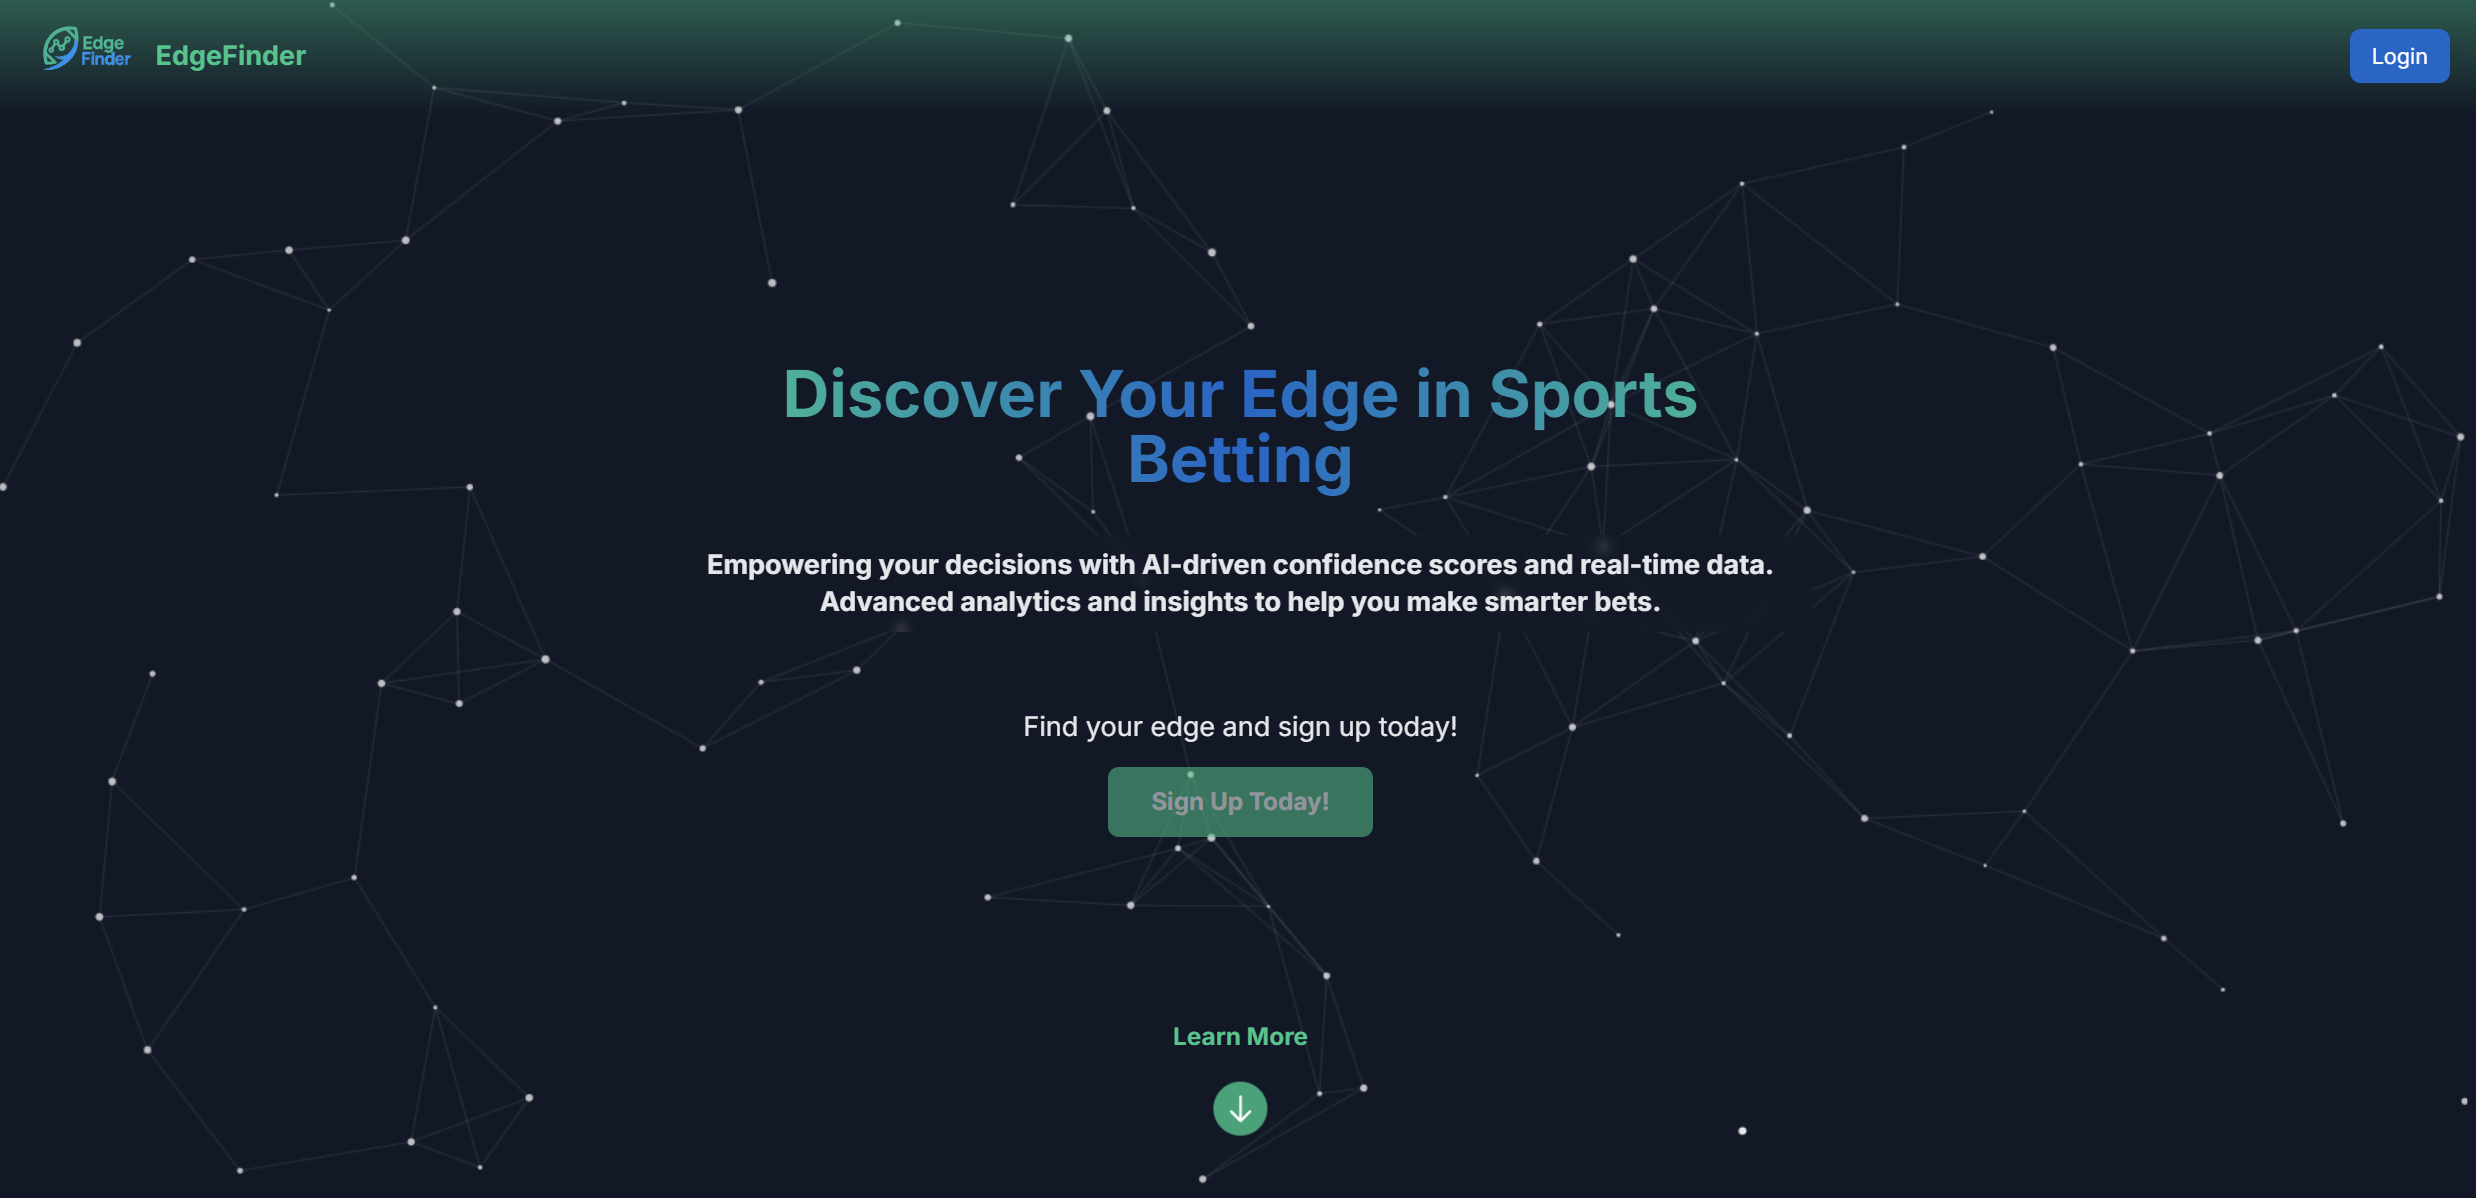
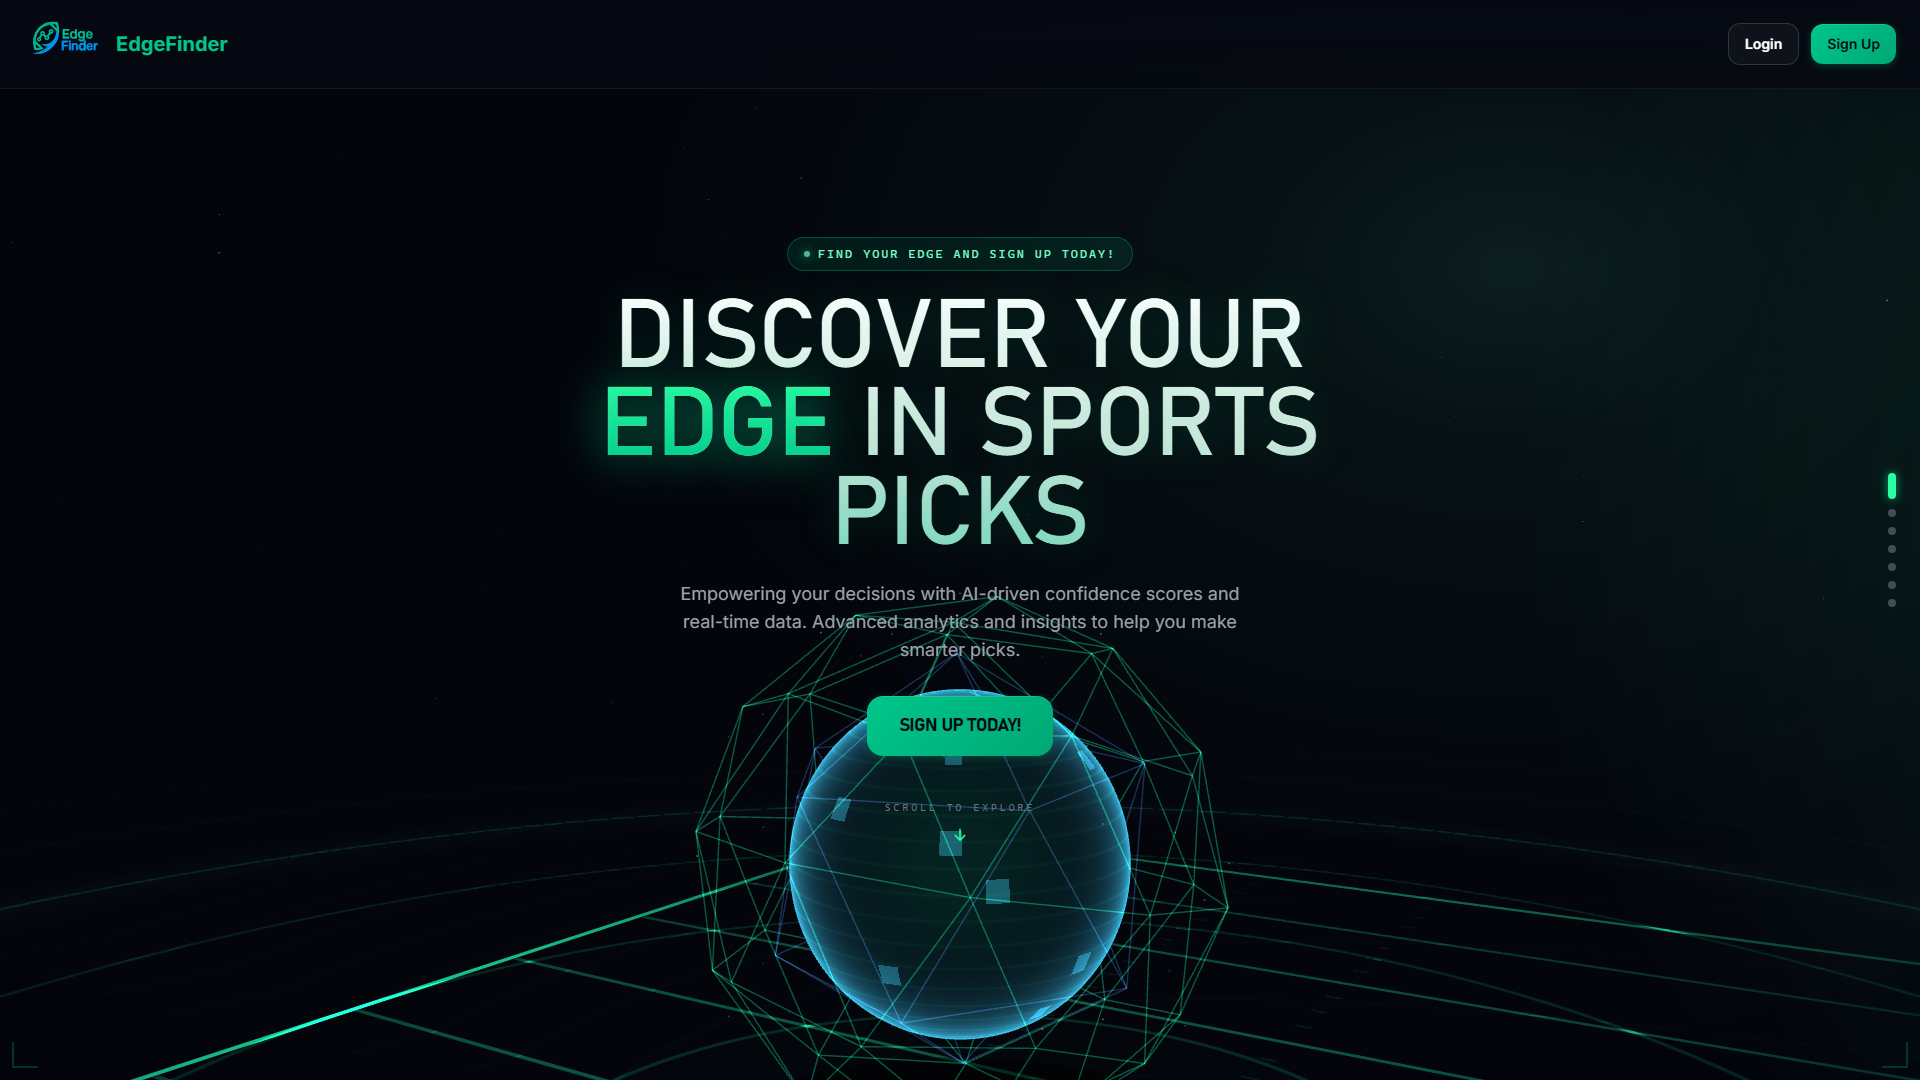
Updates

diff --git a/index.html b/index.html
@@ -51,11 +51,11 @@
             }
         })();
     </script>
-  <script type="module" crossorigin src="/assets/main-DMins19J.js"></script>
-  <link rel="stylesheet" crossorigin href="/assets/main-Da8_LUID.css">
+  <script type="module" crossorigin src="/assets/main-DG2gZ7hl.js"></script>
+  <link rel="stylesheet" crossorigin href="/assets/main-BKGW7lCn.css">
 </head>
 
 <body>
-<div id="root"></div>
+<div id="root"></div>
 </body>
 </html>

diff --git a/assets/main-BKGW7lCn.css b/assets/main-BKGW7lCn.css
@@ -1,0 +1,1 @@
+/*! tailwindcss v4.1.5 | MIT License | https://tailwindcss.com */@layer properties{@supports (((-webkit-hyphens:none)) and (not (margin-trim:inline))) or ((-moz-orient:inline) and (not (color:rgb(from red r g b)))){*,:before,:after,::backdrop{--tw-translate-x:0;--tw-translate-y:0;--tw-translate-z:0;--tw-space-y-reverse:0;--tw-border-style:solid;--tw-leading:initial;--tw-font-weight:initial;--tw-tracking:initial;--tw-shadow:0 0 #0000;--tw-shadow-color:initial;--tw-shadow-alpha:100%;--tw-inset-shadow:0 0 #0000;--tw-inset-shadow-color:initial;--tw-inset-shadow-alpha:100%;--tw-ring-color:initial;--tw-ring-shadow:0 0 #0000;--tw-inset-ring-color:initial;--tw-inset-ring-shadow:0 0 #0000;--tw-ring-inset:initial;--tw-ring-offset-width:0px;--tw-ring-offset-color:#fff;--tw-ring-offset-shadow:0 0 #0000;--tw-backdrop-blur:initial;--tw-backdrop-brightness:initial;--tw-backdrop-contrast:initial;--tw-backdrop-grayscale:initial;--tw-backdrop-hue-rotate:initial;--tw-backdrop-invert:initial;--tw-backdrop-opacity:initial;--tw-backdrop-saturate:initial;--tw-backdrop-sepia:initial;--tw-duration:initial;--tw-blur:initial;--tw-brightness:initial;--tw-contrast:initial;--tw-grayscale:initial;--tw-hue-rotate:initial;--tw-invert:initial;--tw-opacity:initial;--tw-saturate:initial;--tw-sepia:initial;--tw-drop-shadow:initial;--tw-drop-shadow-color:initial;--tw-drop-shadow-alpha:100%;--tw-drop-shadow-size:initial}}}@layer theme{:root,:host{--font-sans:"Archivo",system-ui,sans-serif;--font-mono:"Space Mono",ui-monospace,monospace;--color-amber-400:oklch(82.8% .189 84.429);--color-emerald-300:oklch(84.5% .143 164.978);--color-emerald-400:oklch(76.5% .177 163.223);--color-emerald-500:oklch(69.6% .17 162.48);--color-emerald-700:oklch(50.8% .118 165.612);--color-rose-400:oklch(71.2% .194 13.428);--color-rose-600:oklch(58.6% .253 17.585);--color-gray-200:oklch(92.8% .006 264.531);--color-black:#000;--color-white:#fff;--spacing:.25rem;--container-xs:20rem;--container-2xl:42rem;--container-3xl:48rem;--container-4xl:56rem;--container-5xl:64rem;--text-xs:.75rem;--text-xs--line-height:calc(1/.75);--text-sm:.875rem;--text-sm--line-height:calc(1.25/.875);--text-lg:1.125rem;--text-lg--line-height:calc(1.75/1.125);--text-xl:1.25rem;--text-xl--line-height:calc(1.75/1.25);--text-2xl:1.5rem;--text-2xl--line-height:calc(2/1.5);--text-3xl:1.875rem;--text-3xl--line-height: 1.2 ;--text-4xl:2.25rem;--text-4xl--line-height:calc(2.5/2.25);--text-5xl:3rem;--text-5xl--line-height:1;--text-6xl:3.75rem;--text-6xl--line-height:1;--font-weight-normal:400;--font-weight-medium:500;--font-weight-semibold:600;--font-weight-bold:700;--tracking-tight:-.025em;--tracking-wide:.025em;--tracking-wider:.05em;--tracking-widest:.1em;--leading-tight:1.25;--leading-relaxed:1.625;--radius-md:0px;--radius-lg:0px;--radius-xl:0px;--radius-2xl:0px;--radius-3xl:0px;--animate-ping:ping 1s cubic-bezier(0,0,.2,1)infinite;--animate-pulse:pulse 2s cubic-bezier(.4,0,.6,1)infinite;--blur-sm:8px;--aspect-video:16/9;--default-transition-duration:.15s;--default-transition-timing-function:cubic-bezier(.4,0,.2,1);--default-font-family:var(--font-sans);--default-mono-font-family:var(--font-mono);--color-base:#0a0a0a;--color-base-2:#111;--color-surface:#16150f;--color-ink:#ede9e0;--color-ink-soft:#b8b4a8;--color-ink-muted:#8a867b;--color-line:#ede9e024;--color-line-strong:#ede9e042;--color-card:#ede9e008;--color-card-2:#ede9e00d;--color-card-hover:#ede9e017;--color-accent:#c6ff00;--color-accent-2:#ff2e9a;--color-accent-3:#c6ff00;--color-accent-glow:#c6ff0038;--font-display:"Anton","Arial Narrow",sans-serif}}@layer base{*,:after,:before,::backdrop{box-sizing:border-box;border:0 solid;margin:0;padding:0}::file-selector-button{box-sizing:border-box;border:0 solid;margin:0;padding:0}html,:host{-webkit-text-size-adjust:100%;-moz-tab-size:4;tab-size:4;line-height:1.5;font-family:var(--default-font-family,ui-sans-serif,system-ui,sans-serif,"Apple Color Emoji","Segoe UI Emoji","Segoe UI Symbol","Noto Color Emoji");font-feature-settings:var(--default-font-feature-settings,normal);font-variation-settings:var(--default-font-variation-settings,normal);-webkit-tap-highlight-color:transparent}hr{height:0;color:inherit;border-top-width:1px}abbr:where([title]){-webkit-text-decoration:underline dotted;text-decoration:underline dotted}h1,h2,h3,h4,h5,h6{font-size:inherit;font-weight:inherit}a{color:inherit;-webkit-text-decoration:inherit;text-decoration:inherit}b,strong{font-weight:bolder}code,kbd,samp,pre{font-family:var(--default-mono-font-family,ui-monospace,SFMono-Regular,Menlo,Monaco,Consolas,"Liberation Mono","Courier New",monospace);font-feature-settings:var(--default-mono-font-feature-settings,normal);font-variation-settings:var(--default-mono-font-variation-settings,normal);font-size:1em}small{font-size:80%}sub,sup{vertical-align:baseline;font-size:75%;line-height:0;position:relative}sub{bottom:-.25em}sup{top:-.5em}table{text-indent:0;border-color:inherit;border-collapse:collapse}:-moz-focusring{outline:auto}progress{vertical-align:baseline}summary{display:list-item}ol,ul,menu{list-style:none}img,svg,video,canvas,audio,iframe,embed,object{vertical-align:middle;display:block}img,video{max-width:100%;height:auto}button,input,select,optgroup,textarea{font:inherit;font-feature-settings:inherit;font-variation-settings:inherit;letter-spacing:inherit;color:inherit;opacity:1;background-color:#0000;border-radius:0}::file-selector-button{font:inherit;font-feature-settings:inherit;font-variation-settings:inherit;letter-spacing:inherit;color:inherit;opacity:1;background-color:#0000;border-radius:0}:where(select:is([multiple],[size])) optgroup{font-weight:bolder}:where(select:is([multiple],[size])) optgroup option{padding-inline-start:20px}::file-selector-button{margin-inline-end:4px}::placeholder{opacity:1}@supports (not ((-webkit-appearance:-apple-pay-button))) or (contain-intrinsic-size:1px){::placeholder{color:currentColor}@supports (color:color-mix(in lab,red,red)){::placeholder{color:color-mix(in oklab,currentcolor 50%,transparent)}}}textarea{resize:vertical}::-webkit-search-decoration{-webkit-appearance:none}::-webkit-date-and-time-value{min-height:1lh;text-align:inherit}::-webkit-datetime-edit{display:inline-flex}::-webkit-datetime-edit-fields-wrapper{padding:0}::-webkit-datetime-edit{padding-block:0}::-webkit-datetime-edit-year-field{padding-block:0}::-webkit-datetime-edit-month-field{padding-block:0}::-webkit-datetime-edit-day-field{padding-block:0}::-webkit-datetime-edit-hour-field{padding-block:0}::-webkit-datetime-edit-minute-field{padding-block:0}::-webkit-datetime-edit-second-field{padding-block:0}::-webkit-datetime-edit-millisecond-field{padding-block:0}::-webkit-datetime-edit-meridiem-field{padding-block:0}:-moz-ui-invalid{box-shadow:none}button,input:where([type=button],[type=reset],[type=submit]){-webkit-appearance:button;-moz-appearance:button;appearance:button}::file-selector-button{-webkit-appearance:button;-moz-appearance:button;appearance:button}::-webkit-inner-spin-button{height:auto}::-webkit-outer-spin-button{height:auto}[hidden]:where(:not([hidden=until-found])){display:none!important}}@layer components;@layer utilities{.pointer-events-auto{pointer-events:auto}.pointer-events-none{pointer-events:none}.visible{visibility:visible}.absolute{position:absolute}.fixed{position:fixed}.relative{position:relative}.static{position:static}.sticky{position:sticky}.inset-0{inset:calc(var(--spacing)*0)}.inset-x-0{inset-inline:calc(var(--spacing)*0)}.inset-x-4{inset-inline:calc(var(--spacing)*4)}.inset-y-0{inset-block:calc(var(--spacing)*0)}.top-0{top:calc(var(--spacing)*0)}.top-10{top:calc(var(--spacing)*10)}.top-24{top:calc(var(--spacing)*24)}.top-\[4\.75rem\]{top:4.75rem}.top-\[16\%\]{top:16%}.right-0{right:calc(var(--spacing)*0)}.right-4{right:calc(var(--spacing)*4)}.bottom-0{bottom:calc(var(--spacing)*0)}.bottom-4{bottom:calc(var(--spacing)*4)}.left-0{left:calc(var(--spacing)*0)}.left-1\/2{left:50%}.-z-10{z-index:-10}.z-0{z-index:0}.z-10{z-index:10}.z-40{z-index:40}.z-50{z-index:50}.z-\[60\]{z-index:60}.z-\[100\]{z-index:100}.container{width:100%}@media (min-width:40rem){.container{max-width:40rem}}@media (min-width:48rem){.container{max-width:48rem}}@media (min-width:64rem){.container{max-width:64rem}}@media (min-width:80rem){.container{max-width:80rem}}@media (min-width:96rem){.container{max-width:96rem}}.-mx-6{margin-inline:calc(var(--spacing)*-6)}.mx-auto{margin-inline:auto}.mt-0\.5{margin-top:calc(var(--spacing)*.5)}.mt-1{margin-top:calc(var(--spacing)*1)}.mt-1\.5{margin-top:calc(var(--spacing)*1.5)}.mt-2{margin-top:calc(var(--spacing)*2)}.mt-3{margin-top:calc(var(--spacing)*3)}.mt-4{margin-top:calc(var(--spacing)*4)}.mt-5{margin-top:calc(var(--spacing)*5)}.mt-6{margin-top:calc(var(--spacing)*6)}.mt-7{margin-top:calc(var(--spacing)*7)}.mt-8{margin-top:calc(var(--spacing)*8)}.mt-10{margin-top:calc(var(--spacing)*10)}.mt-20{margin-top:calc(var(--spacing)*20)}.-mb-\[0\.08em\]{margin-bottom:-.08em}.-mb-\[0\.25em\]{margin-bottom:-.25em}.mb-1{margin-bottom:calc(var(--spacing)*1)}.mb-1\.5{margin-bottom:calc(var(--spacing)*1.5)}.mb-2{margin-bottom:calc(var(--spacing)*2)}.mb-4{margin-bottom:calc(var(--spacing)*4)}.mb-5{margin-bottom:calc(var(--spacing)*5)}.mb-6{margin-bottom:calc(var(--spacing)*6)}.mb-12{margin-bottom:calc(var(--spacing)*12)}.ml-1{margin-left:calc(var(--spacing)*1)}.ml-3{margin-left:calc(var(--spacing)*3)}.block{display:block}.contents{display:contents}.flex{display:flex}.grid{display:grid}.hidden{display:none}.inline{display:inline}.inline-block{display:inline-block}.inline-flex{display:inline-flex}.aspect-video{aspect-ratio:var(--aspect-video)}.h-1\.5{height:calc(var(--spacing)*1.5)}.h-2{height:calc(var(--spacing)*2)}.h-2\.5{height:calc(var(--spacing)*2.5)}.h-3{height:calc(var(--spacing)*3)}.h-7{height:calc(var(--spacing)*7)}.h-9{height:calc(var(--spacing)*9)}.h-10{height:calc(var(--spacing)*10)}.h-11{height:calc(var(--spacing)*11)}.h-12{height:calc(var(--spacing)*12)}.h-40{height:calc(var(--spacing)*40)}.h-\[1\.4em\]{height:1.4em}.h-\[2px\]{height:2px}.h-full{height:100%}.h-px{height:1px}.h-screen{height:100vh}.min-h-\[100dvh\]{min-height:100dvh}.min-h-screen{min-height:100vh}.w-1\.5{width:calc(var(--spacing)*1.5)}.w-1\/3{width:33.3333%}.w-2{width:calc(var(--spacing)*2)}.w-2\.5{width:calc(var(--spacing)*2.5)}.w-3{width:calc(var(--spacing)*3)}.w-7{width:calc(var(--spacing)*7)}.w-8{width:calc(var(--spacing)*8)}.w-9{width:calc(var(--spacing)*9)}.w-10{width:calc(var(--spacing)*10)}.w-11{width:calc(var(--spacing)*11)}.w-12{width:calc(var(--spacing)*12)}.w-40{width:calc(var(--spacing)*40)}.w-\[2px\]{width:2px}.w-\[44\%\]{width:44%}.w-\[220px\]{width:220px}.w-full{width:100%}.w-px{width:1px}.max-w-2xl{max-width:var(--container-2xl)}.max-w-3xl{max-width:var(--container-3xl)}.max-w-4xl{max-width:var(--container-4xl)}.max-w-5xl{max-width:var(--container-5xl)}.max-w-xs{max-width:var(--container-xs)}.min-w-0{min-width:calc(var(--spacing)*0)}.flex-1{flex:1}.shrink-0{flex-shrink:0}.origin-bottom-left{transform-origin:0 100%}.origin-left{transform-origin:0}.origin-top{transform-origin:top}.-translate-x-1\/2{--tw-translate-x: -50% ;translate:var(--tw-translate-x)var(--tw-translate-y)}.animate-\[loadingbar_0\.9s_ease_infinite\]{animation:.9s infinite loadingbar}.animate-ping{animation:var(--animate-ping)}.animate-pulse{animation:var(--animate-pulse)}.resize-none{resize:none}.grid-cols-3{grid-template-columns:repeat(3,minmax(0,1fr))}.grid-cols-\[20px_1fr\]{grid-template-columns:20px 1fr}.flex-col{flex-direction:column}.flex-nowrap{flex-wrap:nowrap}.flex-wrap{flex-wrap:wrap}.place-items-center{place-items:center}.items-baseline{align-items:baseline}.items-center{align-items:center}.items-start{align-items:flex-start}.justify-between{justify-content:space-between}.justify-center{justify-content:center}.gap-1{gap:calc(var(--spacing)*1)}.gap-1\.5{gap:calc(var(--spacing)*1.5)}.gap-2{gap:calc(var(--spacing)*2)}.gap-2\.5{gap:calc(var(--spacing)*2.5)}.gap-3{gap:calc(var(--spacing)*3)}.gap-4{gap:calc(var(--spacing)*4)}.gap-6{gap:calc(var(--spacing)*6)}.gap-8{gap:calc(var(--spacing)*8)}.gap-12{gap:calc(var(--spacing)*12)}:where(.space-y-4>:not(:last-child)){--tw-space-y-reverse:0;margin-block-start:calc(calc(var(--spacing)*4)*var(--tw-space-y-reverse));margin-block-end:calc(calc(var(--spacing)*4)*calc(1 - var(--tw-space-y-reverse)))}:where(.space-y-5>:not(:last-child)){--tw-space-y-reverse:0;margin-block-start:calc(calc(var(--spacing)*5)*var(--tw-space-y-reverse));margin-block-end:calc(calc(var(--spacing)*5)*calc(1 - var(--tw-space-y-reverse)))}:where(.space-y-6>:not(:last-child)){--tw-space-y-reverse:0;margin-block-start:calc(calc(var(--spacing)*6)*var(--tw-space-y-reverse));margin-block-end:calc(calc(var(--spacing)*6)*calc(1 - var(--tw-space-y-reverse)))}:where(.space-y-10>:not(:last-child)){--tw-space-y-reverse:0;margin-block-start:calc(calc(var(--spacing)*10)*var(--tw-space-y-reverse));margin-block-end:calc(calc(var(--spacing)*10)*calc(1 - var(--tw-space-y-reverse)))}.gap-x-5{column-gap:calc(var(--spacing)*5)}.gap-y-2{row-gap:calc(var(--spacing)*2)}.truncate{text-overflow:ellipsis;white-space:nowrap;overflow:hidden}.overflow-hidden{overflow:hidden}.rounded{border-radius:.25rem}.rounded-2xl{border-radius:var(--radius-2xl)}.rounded-3xl{border-radius:var(--radius-3xl)}.rounded-full{border-radius:3.40282e38px}.rounded-lg{border-radius:var(--radius-lg)}.rounded-md{border-radius:var(--radius-md)}.rounded-xl{border-radius:var(--radius-xl)}.border{border-style:var(--tw-border-style);border-width:1px}.border-y-2{border-block-style:var(--tw-border-style);border-block-width:2px}.border-t{border-top-style:var(--tw-border-style);border-top-width:1px}.border-t-2{border-top-style:var(--tw-border-style);border-top-width:2px}.border-b{border-bottom-style:var(--tw-border-style);border-bottom-width:1px}.border-emerald-500\/30{border-color:#00bb7f4d}@supports (color:color-mix(in lab,red,red)){.border-emerald-500\/30{border-color:color-mix(in oklab,var(--color-emerald-500)30%,transparent)}}.border-gray-200\/40{border-color:#e5e7eb66}@supports (color:color-mix(in lab,red,red)){.border-gray-200\/40{border-color:color-mix(in oklab,var(--color-gray-200)40%,transparent)}}.border-ink{border-color:var(--color-ink)}.border-line{border-color:var(--color-line)}.border-line-strong{border-color:var(--color-line-strong)}.border-transparent{border-color:#0000}.bg-accent{background-color:var(--color-accent)}.bg-accent-2{background-color:var(--color-accent-2)}.bg-accent-3\/60{background-color:#c6ff0099}@supports (color:color-mix(in lab,red,red)){.bg-accent-3\/60{background-color:color-mix(in oklab,var(--color-accent-3)60%,transparent)}}.bg-amber-400\/70{background-color:#fcbb00b3}@supports (color:color-mix(in lab,red,red)){.bg-amber-400\/70{background-color:color-mix(in oklab,var(--color-amber-400)70%,transparent)}}.bg-base{background-color:var(--color-base)}.bg-base-2{background-color:var(--color-base-2)}.bg-black\/35{background-color:#00000059}@supports (color:color-mix(in lab,red,red)){.bg-black\/35{background-color:color-mix(in oklab,var(--color-black)35%,transparent)}}.bg-card{background-color:var(--color-card)}.bg-card-2{background-color:var(--color-card-2)}.bg-card-hover{background-color:var(--color-card-hover)}.bg-emerald-400{background-color:var(--color-emerald-400)}.bg-emerald-400\/70{background-color:#00d294b3}@supports (color:color-mix(in lab,red,red)){.bg-emerald-400\/70{background-color:color-mix(in oklab,var(--color-emerald-400)70%,transparent)}}.bg-emerald-500{background-color:var(--color-emerald-500)}.bg-emerald-500\/10{background-color:#00bb7f1a}@supports (color:color-mix(in lab,red,red)){.bg-emerald-500\/10{background-color:color-mix(in oklab,var(--color-emerald-500)10%,transparent)}}.bg-gray-200\/50{background-color:#e5e7eb80}@supports (color:color-mix(in lab,red,red)){.bg-gray-200\/50{background-color:color-mix(in oklab,var(--color-gray-200)50%,transparent)}}.bg-ink{background-color:var(--color-ink)}.bg-line-strong{background-color:var(--color-line-strong)}.bg-rose-400\/70{background-color:#ff667fb3}@supports (color:color-mix(in lab,red,red)){.bg-rose-400\/70{background-color:color-mix(in oklab,var(--color-rose-400)70%,transparent)}}.bg-surface{background-color:var(--color-surface)}.\[mask-image\:linear-gradient\(to_right\,transparent\,black_30\%\)\]{-webkit-mask-image:linear-gradient(90deg,#0000,#000 30%);mask-image:linear-gradient(90deg,#0000,#000 30%)}.\[mask-image\:radial-gradient\(ellipse_at_center\,black_20\%\,transparent_78\%\)\]{-webkit-mask-image:radial-gradient(#000 20%,#0000 78%);mask-image:radial-gradient(#000 20%,#0000 78%)}.object-cover{object-fit:cover}.p-4{padding:calc(var(--spacing)*4)}.p-5{padding:calc(var(--spacing)*5)}.p-6{padding:calc(var(--spacing)*6)}.p-7{padding:calc(var(--spacing)*7)}.p-8{padding:calc(var(--spacing)*8)}.px-2{padding-inline:calc(var(--spacing)*2)}.px-2\.5{padding-inline:calc(var(--spacing)*2.5)}.px-3{padding-inline:calc(var(--spacing)*3)}.px-3\.5{padding-inline:calc(var(--spacing)*3.5)}.px-4{padding-inline:calc(var(--spacing)*4)}.px-5{padding-inline:calc(var(--spacing)*5)}.px-6{padding-inline:calc(var(--spacing)*6)}.py-0\.5{padding-block:calc(var(--spacing)*.5)}.py-1{padding-block:calc(var(--spacing)*1)}.py-1\.5{padding-block:calc(var(--spacing)*1.5)}.py-2{padding-block:calc(var(--spacing)*2)}.py-2\.5{padding-block:calc(var(--spacing)*2.5)}.py-3{padding-block:calc(var(--spacing)*3)}.py-3\.5{padding-block:calc(var(--spacing)*3.5)}.py-12{padding-block:calc(var(--spacing)*12)}.py-16{padding-block:calc(var(--spacing)*16)}.py-24{padding-block:calc(var(--spacing)*24)}.pt-3{padding-top:calc(var(--spacing)*3)}.pt-4{padding-top:calc(var(--spacing)*4)}.pt-6{padding-top:calc(var(--spacing)*6)}.pt-16{padding-top:calc(var(--spacing)*16)}.pt-24{padding-top:calc(var(--spacing)*24)}.pt-28{padding-top:calc(var(--spacing)*28)}.pt-36{padding-top:calc(var(--spacing)*36)}.pr-3{padding-right:calc(var(--spacing)*3)}.pb-4{padding-bottom:calc(var(--spacing)*4)}.pb-6{padding-bottom:calc(var(--spacing)*6)}.pb-12{padding-bottom:calc(var(--spacing)*12)}.pb-20{padding-bottom:calc(var(--spacing)*20)}.pb-\[0\.08em\]{padding-bottom:.08em}.pb-\[0\.25em\]{padding-bottom:.25em}.text-center{text-align:center}.align-\[0\.3em\]{vertical-align:.3em}.align-bottom{vertical-align:bottom}.font-display{font-family:var(--font-display)}.font-mono{font-family:var(--font-mono)}.text-2xl{font-size:var(--text-2xl);line-height:var(--tw-leading,var(--text-2xl--line-height))}.text-3xl{font-size:var(--text-3xl);line-height:var(--tw-leading,var(--text-3xl--line-height))}.text-4xl{font-size:var(--text-4xl);line-height:var(--tw-leading,var(--text-4xl--line-height))}.text-6xl{font-size:var(--text-6xl);line-height:var(--tw-leading,var(--text-6xl--line-height))}.text-lg{font-size:var(--text-lg);line-height:var(--tw-leading,var(--text-lg--line-height))}.text-sm{font-size:var(--text-sm);line-height:var(--tw-leading,var(--text-sm--line-height))}.text-xl{font-size:var(--text-xl);line-height:var(--tw-leading,var(--text-xl--line-height))}.text-xs{font-size:var(--text-xs);line-height:var(--tw-leading,var(--text-xs--line-height))}.text-\[7rem\]{font-size:7rem}.text-\[10px\]{font-size:10px}.text-\[11px\]{font-size:11px}.text-\[13\.5vw\]{font-size:13.5vw}.text-\[13px\]{font-size:13px}.text-\[15px\]{font-size:15px}.text-\[22vw\]{font-size:22vw}.text-\[clamp\(2\.75rem\,9vw\,6\.5rem\)\]{font-size:clamp(2.75rem,9vw,6.5rem)}.leading-\[0\.95\]{--tw-leading:.95;line-height:.95}.leading-none{--tw-leading:1;line-height:1}.leading-relaxed{--tw-leading:var(--leading-relaxed);line-height:var(--leading-relaxed)}.leading-tight{--tw-leading:var(--leading-tight);line-height:var(--leading-tight)}.font-bold{--tw-font-weight:var(--font-weight-bold);font-weight:var(--font-weight-bold)}.font-medium{--tw-font-weight:var(--font-weight-medium);font-weight:var(--font-weight-medium)}.font-normal{--tw-font-weight:var(--font-weight-normal);font-weight:var(--font-weight-normal)}.font-semibold{--tw-font-weight:var(--font-weight-semibold);font-weight:var(--font-weight-semibold)}.tracking-\[0\.3em\]{--tw-tracking:.3em;letter-spacing:.3em}.tracking-\[0\.25em\]{--tw-tracking:.25em;letter-spacing:.25em}.tracking-tight{--tw-tracking:var(--tracking-tight);letter-spacing:var(--tracking-tight)}.tracking-wide{--tw-tracking:var(--tracking-wide);letter-spacing:var(--tracking-wide)}.tracking-wider{--tw-tracking:var(--tracking-wider);letter-spacing:var(--tracking-wider)}.tracking-widest{--tw-tracking:var(--tracking-widest);letter-spacing:var(--tracking-widest)}.whitespace-nowrap{white-space:nowrap}.whitespace-pre{white-space:pre}.text-\[\#0a0a0a\]{color:#0a0a0a}.text-accent{color:var(--color-accent)}.text-accent-3{color:var(--color-accent-3)}.text-base{color:var(--color-base)}.text-emerald-700{color:var(--color-emerald-700)}.text-ink{color:var(--color-ink)}.text-ink-muted{color:var(--color-ink-muted)}.text-ink-soft{color:var(--color-ink-soft)}.text-rose-600{color:var(--color-rose-600)}.text-white{color:var(--color-white)}.uppercase{text-transform:uppercase}.opacity-0{opacity:0}.opacity-40{opacity:.4}.opacity-50{opacity:.5}.opacity-70{opacity:.7}.opacity-75{opacity:.75}.opacity-80{opacity:.8}.opacity-90{opacity:.9}.opacity-100{opacity:1}.shadow-\[0_0_12px_var\(--color-accent-glow\)\]{--tw-shadow:0 0 12px var(--tw-shadow-color,var(--color-accent-glow));box-shadow:var(--tw-inset-shadow),var(--tw-inset-ring-shadow),var(--tw-ring-offset-shadow),var(--tw-ring-shadow),var(--tw-shadow)}.shadow-\[0_0_15px_var\(--color-accent-glow\)\]{--tw-shadow:0 0 15px var(--tw-shadow-color,var(--color-accent-glow));box-shadow:var(--tw-inset-shadow),var(--tw-inset-ring-shadow),var(--tw-ring-offset-shadow),var(--tw-ring-shadow),var(--tw-shadow)}.shadow-\[0_0_16px_var\(--color-accent-glow\)\]{--tw-shadow:0 0 16px var(--tw-shadow-color,var(--color-accent-glow));box-shadow:var(--tw-inset-shadow),var(--tw-inset-ring-shadow),var(--tw-ring-offset-shadow),var(--tw-ring-shadow),var(--tw-shadow)}.shadow-\[0_0_20px_var\(--color-accent-glow\)\]{--tw-shadow:0 0 20px var(--tw-shadow-color,var(--color-accent-glow));box-shadow:var(--tw-inset-shadow),var(--tw-inset-ring-shadow),var(--tw-ring-offset-shadow),var(--tw-ring-shadow),var(--tw-shadow)}.shadow-\[0_0_24px_-6px_var\(--color-accent-glow\)\]{--tw-shadow:0 0 24px -6px var(--tw-shadow-color,var(--color-accent-glow));box-shadow:var(--tw-inset-shadow),var(--tw-inset-ring-shadow),var(--tw-ring-offset-shadow),var(--tw-ring-shadow),var(--tw-shadow)}.shadow-\[0_0_30px_-6px_var\(--color-accent-glow\)\]{--tw-shadow:0 0 30px -6px var(--tw-shadow-color,var(--color-accent-glow));box-shadow:var(--tw-inset-shadow),var(--tw-inset-ring-shadow),var(--tw-ring-offset-shadow),var(--tw-ring-shadow),var(--tw-shadow)}.shadow-\[0_8px_40px_-12px_rgba\(0\,0\,0\,0\.6\)\]{--tw-shadow:0 8px 40px -12px var(--tw-shadow-color,#0009);box-shadow:var(--tw-inset-shadow),var(--tw-inset-ring-shadow),var(--tw-ring-offset-shadow),var(--tw-ring-shadow),var(--tw-shadow)}.shadow-\[0_24px_80px_-24px_rgba\(0\,0\,0\,0\.6\)\]{--tw-shadow:0 24px 80px -24px var(--tw-shadow-color,#0009);box-shadow:var(--tw-inset-shadow),var(--tw-inset-ring-shadow),var(--tw-ring-offset-shadow),var(--tw-ring-shadow),var(--tw-shadow)}.shadow-lg{--tw-shadow:0 10px 15px -3px var(--tw-shadow-color,#0000001a),0 4px 6px -4px var(--tw-shadow-color,#0000001a);box-shadow:var(--tw-inset-shadow),var(--tw-inset-ring-shadow),var(--tw-ring-offset-shadow),var(--tw-ring-shadow),var(--tw-shadow)}.ring-1{--tw-ring-shadow:var(--tw-ring-inset,)0 0 0 calc(1px + var(--tw-ring-offset-width))var(--tw-ring-color,currentcolor);box-shadow:var(--tw-inset-shadow),var(--tw-inset-ring-shadow),var(--tw-ring-offset-shadow),var(--tw-ring-shadow),var(--tw-shadow)}.ring-4{--tw-ring-shadow:var(--tw-ring-inset,)0 0 0 calc(4px + var(--tw-ring-offset-width))var(--tw-ring-color,currentcolor);box-shadow:var(--tw-inset-shadow),var(--tw-inset-ring-shadow),var(--tw-ring-offset-shadow),var(--tw-ring-shadow),var(--tw-shadow)}.ring-accent\/15{--tw-ring-color:#c6ff0026}@supports (color:color-mix(in lab,red,red)){.ring-accent\/15{--tw-ring-color:color-mix(in oklab,var(--color-accent)15%,transparent)}}.ring-line{--tw-ring-color:var(--color-line)}.backdrop-blur-sm{--tw-backdrop-blur:blur(var(--blur-sm));-webkit-backdrop-filter:var(--tw-backdrop-blur,)var(--tw-backdrop-brightness,)var(--tw-backdrop-contrast,)var(--tw-backdrop-grayscale,)var(--tw-backdrop-hue-rotate,)var(--tw-backdrop-invert,)var(--tw-backdrop-opacity,)var(--tw-backdrop-saturate,)var(--tw-backdrop-sepia,);backdrop-filter:var(--tw-backdrop-blur,)var(--tw-backdrop-brightness,)var(--tw-backdrop-contrast,)var(--tw-backdrop-grayscale,)var(--tw-backdrop-hue-rotate,)var(--tw-backdrop-invert,)var(--tw-backdrop-opacity,)var(--tw-backdrop-saturate,)var(--tw-backdrop-sepia,)}.transition{transition-property:color,background-color,border-color,outline-color,text-decoration-color,fill,stroke,--tw-gradient-from,--tw-gradient-via,--tw-gradient-to,opacity,box-shadow,transform,translate,scale,rotate,filter,-webkit-backdrop-filter,backdrop-filter,display,visibility,content-visibility,overlay,pointer-events;transition-timing-function:var(--tw-ease,var(--default-transition-timing-function));transition-duration:var(--tw-duration,var(--default-transition-duration))}.transition-all{transition-property:all;transition-timing-function:var(--tw-ease,var(--default-transition-timing-function));transition-duration:var(--tw-duration,var(--default-transition-duration))}.transition-colors{transition-property:color,background-color,border-color,outline-color,text-decoration-color,fill,stroke,--tw-gradient-from,--tw-gradient-via,--tw-gradient-to;transition-timing-function:var(--tw-ease,var(--default-transition-timing-function));transition-duration:var(--tw-duration,var(--default-transition-duration))}.transition-opacity{transition-property:opacity;transition-timing-function:var(--tw-ease,var(--default-transition-timing-function));transition-duration:var(--tw-duration,var(--default-transition-duration))}.transition-transform{transition-property:transform,translate,scale,rotate;transition-timing-function:var(--tw-ease,var(--default-transition-timing-function));transition-duration:var(--tw-duration,var(--default-transition-duration))}.duration-300{--tw-duration:.3s;transition-duration:.3s}.duration-500{--tw-duration:.5s;transition-duration:.5s}.duration-700{--tw-duration:.7s;transition-duration:.7s}.outline-none{--tw-outline-style:none;outline-style:none}.select-none{-webkit-user-select:none;user-select:none}@media (hover:hover){.group-hover\:translate-x-0\.5:is(:where(.group):hover *){--tw-translate-x:calc(var(--spacing)*.5);translate:var(--tw-translate-x)var(--tw-translate-y)}.group-hover\:-translate-y-0\.5:is(:where(.group):hover *){--tw-translate-y:calc(var(--spacing)*-.5);translate:var(--tw-translate-x)var(--tw-translate-y)}.group-hover\:scale-\[1\.03\]:is(:where(.group):hover *){scale:1.03}.group-hover\:text-accent:is(:where(.group):hover *){color:var(--color-accent)}.group-hover\:opacity-100:is(:where(.group):hover *){opacity:1}}.placeholder\:text-ink-muted::placeholder{color:var(--color-ink-muted)}@media (hover:hover){.hover\:scale-\[1\.03\]:hover{scale:1.03}.hover\:border-accent:hover{border-color:var(--color-accent)}.hover\:border-accent\/40:hover{border-color:#c6ff0066}@supports (color:color-mix(in lab,red,red)){.hover\:border-accent\/40:hover{border-color:color-mix(in oklab,var(--color-accent)40%,transparent)}}.hover\:border-accent\/50:hover{border-color:#c6ff0080}@supports (color:color-mix(in lab,red,red)){.hover\:border-accent\/50:hover{border-color:color-mix(in oklab,var(--color-accent)50%,transparent)}}.hover\:border-accent\/60:hover{border-color:#c6ff0099}@supports (color:color-mix(in lab,red,red)){.hover\:border-accent\/60:hover{border-color:color-mix(in oklab,var(--color-accent)60%,transparent)}}.hover\:bg-accent:hover{background-color:var(--color-accent)}.hover\:bg-accent-2:hover{background-color:var(--color-accent-2)}.hover\:bg-accent\/10:hover{background-color:#c6ff001a}@supports (color:color-mix(in lab,red,red)){.hover\:bg-accent\/10:hover{background-color:color-mix(in oklab,var(--color-accent)10%,transparent)}}.hover\:bg-card-hover:hover{background-color:var(--color-card-hover)}.hover\:text-\[\#0a0a0a\]:hover{color:#0a0a0a}.hover\:text-ink:hover{color:var(--color-ink)}.hover\:text-ink-soft:hover{color:var(--color-ink-soft)}.hover\:underline:hover{text-decoration-line:underline}.hover\:brightness-110:hover{--tw-brightness:brightness(110%);filter:var(--tw-blur,)var(--tw-brightness,)var(--tw-contrast,)var(--tw-grayscale,)var(--tw-hue-rotate,)var(--tw-invert,)var(--tw-saturate,)var(--tw-sepia,)var(--tw-drop-shadow,)}}.focus\:border-accent\/60:focus{border-color:#c6ff0099}@supports (color:color-mix(in lab,red,red)){.focus\:border-accent\/60:focus{border-color:color-mix(in oklab,var(--color-accent)60%,transparent)}}.focus\:ring-2:focus{--tw-ring-shadow:var(--tw-ring-inset,)0 0 0 calc(2px + var(--tw-ring-offset-width))var(--tw-ring-color,currentcolor);box-shadow:var(--tw-inset-shadow),var(--tw-inset-ring-shadow),var(--tw-ring-offset-shadow),var(--tw-ring-shadow),var(--tw-shadow)}.focus\:ring-accent\/20:focus{--tw-ring-color:#c6ff0033}@supports (color:color-mix(in lab,red,red)){.focus\:ring-accent\/20:focus{--tw-ring-color:color-mix(in oklab,var(--color-accent)20%,transparent)}}.disabled\:opacity-70:disabled{opacity:.7}@media (min-width:40rem){.sm\:top-\[12\%\]{top:12%}.sm\:inline-flex{display:inline-flex}.sm\:grid-cols-2{grid-template-columns:repeat(2,minmax(0,1fr))}.sm\:grid-cols-\[28px_1fr\]{grid-template-columns:28px 1fr}.sm\:flex-col{flex-direction:column}.sm\:flex-row{flex-direction:row}.sm\:items-center{align-items:center}.sm\:items-end{align-items:flex-end}.sm\:items-start{align-items:flex-start}.sm\:justify-between{justify-content:space-between}.sm\:gap-6{gap:calc(var(--spacing)*6)}.sm\:p-8{padding:calc(var(--spacing)*8)}.sm\:p-9{padding:calc(var(--spacing)*9)}.sm\:p-10{padding:calc(var(--spacing)*10)}.sm\:px-6{padding-inline:calc(var(--spacing)*6)}.sm\:py-4{padding-block:calc(var(--spacing)*4)}.sm\:py-32{padding-block:calc(var(--spacing)*32)}.sm\:pt-24{padding-top:calc(var(--spacing)*24)}.sm\:pt-32{padding-top:calc(var(--spacing)*32)}.sm\:pt-40{padding-top:calc(var(--spacing)*40)}.sm\:text-2xl{font-size:var(--text-2xl);line-height:var(--tw-leading,var(--text-2xl--line-height))}.sm\:text-3xl{font-size:var(--text-3xl);line-height:var(--tw-leading,var(--text-3xl--line-height))}.sm\:text-4xl{font-size:var(--text-4xl);line-height:var(--tw-leading,var(--text-4xl--line-height))}.sm\:text-5xl{font-size:var(--text-5xl);line-height:var(--tw-leading,var(--text-5xl--line-height))}.sm\:text-sm{font-size:var(--text-sm);line-height:var(--tw-leading,var(--text-sm--line-height))}.sm\:text-xl{font-size:var(--text-xl);line-height:var(--tw-leading,var(--text-xl--line-height))}.sm\:text-\[10vw\]{font-size:10vw}.sm\:text-base{color:var(--color-base)}}@media (min-width:48rem){.md\:auto-rows-fr{grid-auto-rows:minmax(0,1fr)}.md\:grid-cols-2{grid-template-columns:repeat(2,minmax(0,1fr))}.md\:grid-cols-3{grid-template-columns:repeat(3,minmax(0,1fr))}.md\:flex-row{flex-direction:row}}@media (min-width:64rem){.lg\:block{display:block}.lg\:flex{display:flex}.lg\:hidden{display:none}.lg\:inline-block{display:inline-block}.lg\:auto-rows-fr{grid-auto-rows:minmax(0,1fr)}.lg\:grid-cols-3{grid-template-columns:repeat(3,minmax(0,1fr))}.lg\:grid-cols-\[1\.4fr_1fr\]{grid-template-columns:1.4fr 1fr}.lg\:grid-cols-\[1\.05fr_1fr\]{grid-template-columns:1.05fr 1fr}.lg\:grid-cols-\[1fr_1\.1fr\]{grid-template-columns:1fr 1.1fr}.lg\:items-center{align-items:center}}.dark\:bg-emerald-400:where(.dark,.dark *){background-color:var(--color-emerald-400)}.dark\:text-emerald-300:where(.dark,.dark *){color:var(--color-emerald-300)}.dark\:text-emerald-400:where(.dark,.dark *){color:var(--color-emerald-400)}.dark\:text-rose-400:where(.dark,.dark *){color:var(--color-rose-400)}.text-gradient{background-image:linear-gradient(105deg,var(--grad-1)0%,var(--grad-2)40%,var(--grad-3)100%);color:#0000;-webkit-background-clip:text;background-clip:text}.text-stroke{-webkit-text-stroke:1.5px var(--stroke-ink);color:#0000}.glass{background:var(--glass-bg);border:1px solid var(--color-line);-webkit-backdrop-filter:blur(12px);backdrop-filter:blur(12px)}.glow-border{isolation:isolate;position:relative}.glow-border:before{content:"";border-radius:inherit;opacity:0;background:linear-gradient(135deg,#c6ff0099,#ff2e9a59,#0000 60%);padding:1px;transition:opacity .4s;position:absolute;top:0;right:0;bottom:0;left:0;-webkit-mask-image:linear-gradient(#000 0 0),linear-gradient(#000 0 0);-webkit-mask-position:0 0,0 0;-webkit-mask-size:auto,auto;-webkit-mask-repeat:repeat,repeat;-webkit-mask-clip:content-box,border-box;-webkit-mask-origin:content-box,border-box;-webkit-mask-composite:xor;mask-composite:exclude;-webkit-mask-source-type:auto,auto;mask-mode:match-source,match-source}.glow-border:hover:before{opacity:1}.grid-bg{background-image:linear-gradient(to right,var(--grid-line)1px,transparent 1px),linear-gradient(to bottom,var(--grid-line)1px,transparent 1px);background-size:64px 64px}.aurora-vignette{background:radial-gradient(ellipse at center,transparent 60%,var(--vignette))}.blob{will-change:transform;border-radius:9999px;position:absolute}.blob-a{animation:26s ease-in-out infinite blob-a}.blob-b{animation:32s ease-in-out infinite blob-b}.blob-c{animation:29s ease-in-out infinite blob-c}.halo{z-index:-1;border-radius:inherit;opacity:.5;transition:opacity .4s;position:absolute;top:-3px;right:-3px;bottom:-3px;left:-3px;overflow:hidden}.group:hover>.halo,.cta-glow:hover>.halo{opacity:.95}.halo-disc{background:conic-gradient(var(--color-accent),var(--color-accent-3),var(--color-accent-2),var(--color-accent));filter:blur(14px);will-change:transform;animation:5s linear infinite halo-spin;position:absolute;top:-150%;right:-150%;bottom:-150%;left:-150%}.cta-glow{isolation:isolate;position:relative}.marquee{overflow:hidden;-webkit-mask-image:linear-gradient(90deg,#0000,#000 8% 92%,#0000);mask-image:linear-gradient(90deg,#0000,#000 8%,#000 92%,#0000)}.marquee-track{will-change:transform;width:max-content;animation:marquee-left var(--marquee-duration,40s)linear infinite;display:flex}.marquee-track.reverse{animation-name:marquee-right}.marquee:hover .marquee-track{animation-play-state:paused}}:root{--grid-line:#ede9e00d;--glass-bg:#ede9e008;--grad-1:#c6ff00;--grad-2:#b6ff4d;--grad-3:#ff2e9a;--vignette:#00000080;--stroke-ink:#ede9e080}html.light{color-scheme:light;--color-base:#ede9e0;--color-base-2:#e3ded2;--color-surface:#fbfaf6;--color-ink:#0a0a0a;--color-ink-soft:#3a382f;--color-ink-muted:#5c594e;--color-line:#0a0a0a24;--color-line-strong:#0a0a0a42;--color-card:#fbfaf6;--color-card-2:#f2efe7;--color-card-hover:#e9e5da;--color-accent:#5a7a00;--color-accent-2:#b2005e;--color-accent-3:#5a7a00;--color-accent-glow:#5a7a0033;--grid-line:#0a0a0a0f;--glass-bg:#fbfaf6b8;--grad-1:#4e6b00;--grad-2:#6a5a00;--grad-3:#b2005e;--vignette:#0a0a0a0f;--stroke-ink:#0a0a0a52}html.dark{color-scheme:dark}html{background-color:var(--color-base)}body{background-color:var(--color-base);min-height:100dvh;color:var(--color-ink);font-family:var(--font-sans);-webkit-font-smoothing:antialiased;text-rendering:optimizeLegibility;margin:0;transition:background-color .3s,color .3s;overflow-x:hidden}::selection{background:var(--color-accent);color:#0a0a0a}:where(a,button,[tabindex]):focus-visible{outline:2px solid var(--color-accent);outline-offset:2px;border-radius:.5rem}::-webkit-scrollbar{width:10px}::-webkit-scrollbar-track{background:var(--color-base)}::-webkit-scrollbar-thumb{background:var(--color-accent);border:3px solid var(--color-base)}::-webkit-scrollbar-thumb:hover{background:var(--color-accent-2)}@keyframes blob-a{0%,to{transform:translate(0)scale(1)}33%{transform:translate(7vw,-6vh)scale(1.12)}66%{transform:translate(-4vw,7vh)scale(.94)}}@keyframes blob-b{0%,to{transform:translate(0)scale(1)}33%{transform:translate(-8vw,7vh)scale(.9)}66%{transform:translate(5vw,-5vh)scale(1.1)}}@keyframes blob-c{0%,to{transform:translate(0)scale(1)}33%{transform:translate(6vw,-7vh)scale(1.08)}66%{transform:translate(-7vw,5vh)scale(.93)}}@keyframes halo-spin{to{transform:rotate(360deg)}}@keyframes marquee-left{to{transform:translate(-50%)}}@keyframes marquee-right{0%{transform:translate(-50%)}to{transform:translate(0)}}@media (prefers-reduced-motion:reduce){*,:before,:after{scroll-behavior:auto!important;transition-duration:.01ms!important;animation-duration:.01ms!important;animation-iteration-count:1!important}}@property --tw-translate-x{syntax:"*";inherits:false;initial-value:0}@property --tw-translate-y{syntax:"*";inherits:false;initial-value:0}@property --tw-translate-z{syntax:"*";inherits:false;initial-value:0}@property --tw-space-y-reverse{syntax:"*";inherits:false;initial-value:0}@property --tw-border-style{syntax:"*";inherits:false;initial-value:solid}@property --tw-leading{syntax:"*";inherits:false}@property --tw-font-weight{syntax:"*";inherits:false}@property --tw-tracking{syntax:"*";inherits:false}@property --tw-shadow{syntax:"*";inherits:false;initial-value:0 0 #0000}@property --tw-shadow-color{syntax:"*";inherits:false}@property --tw-shadow-alpha{syntax:"<percentage>";inherits:false;initial-value:100%}@property --tw-inset-shadow{syntax:"*";inherits:false;initial-value:0 0 #0000}@property --tw-inset-shadow-color{syntax:"*";inherits:false}@property --tw-inset-shadow-alpha{syntax:"<percentage>";inherits:false;initial-value:100%}@property --tw-ring-color{syntax:"*";inherits:false}@property --tw-ring-shadow{syntax:"*";inherits:false;initial-value:0 0 #0000}@property --tw-inset-ring-color{syntax:"*";inherits:false}@property --tw-inset-ring-shadow{syntax:"*";inherits:false;initial-value:0 0 #0000}@property --tw-ring-inset{syntax:"*";inherits:false}@property --tw-ring-offset-width{syntax:"<length>";inherits:false;initial-value:0}@property --tw-ring-offset-color{syntax:"*";inherits:false;initial-value:#fff}@property --tw-ring-offset-shadow{syntax:"*";inherits:false;initial-value:0 0 #0000}@property --tw-backdrop-blur{syntax:"*";inherits:false}@property --tw-backdrop-brightness{syntax:"*";inherits:false}@property --tw-backdrop-contrast{syntax:"*";inherits:false}@property --tw-backdrop-grayscale{syntax:"*";inherits:false}@property --tw-backdrop-hue-rotate{syntax:"*";inherits:false}@property --tw-backdrop-invert{syntax:"*";inherits:false}@property --tw-backdrop-opacity{syntax:"*";inherits:false}@property --tw-backdrop-saturate{syntax:"*";inherits:false}@property --tw-backdrop-sepia{syntax:"*";inherits:false}@property --tw-duration{syntax:"*";inherits:false}@property --tw-blur{syntax:"*";inherits:false}@property --tw-brightness{syntax:"*";inherits:false}@property --tw-contrast{syntax:"*";inherits:false}@property --tw-grayscale{syntax:"*";inherits:false}@property --tw-hue-rotate{syntax:"*";inherits:false}@property --tw-invert{syntax:"*";inherits:false}@property --tw-opacity{syntax:"*";inherits:false}@property --tw-saturate{syntax:"*";inherits:false}@property --tw-sepia{syntax:"*";inherits:false}@property --tw-drop-shadow{syntax:"*";inherits:false}@property --tw-drop-shadow-color{syntax:"*";inherits:false}@property --tw-drop-shadow-alpha{syntax:"<percentage>";inherits:false;initial-value:100%}@property --tw-drop-shadow-size{syntax:"*";inherits:false}@keyframes ping{75%,to{opacity:0;transform:scale(2)}}@keyframes pulse{50%{opacity:.5}}